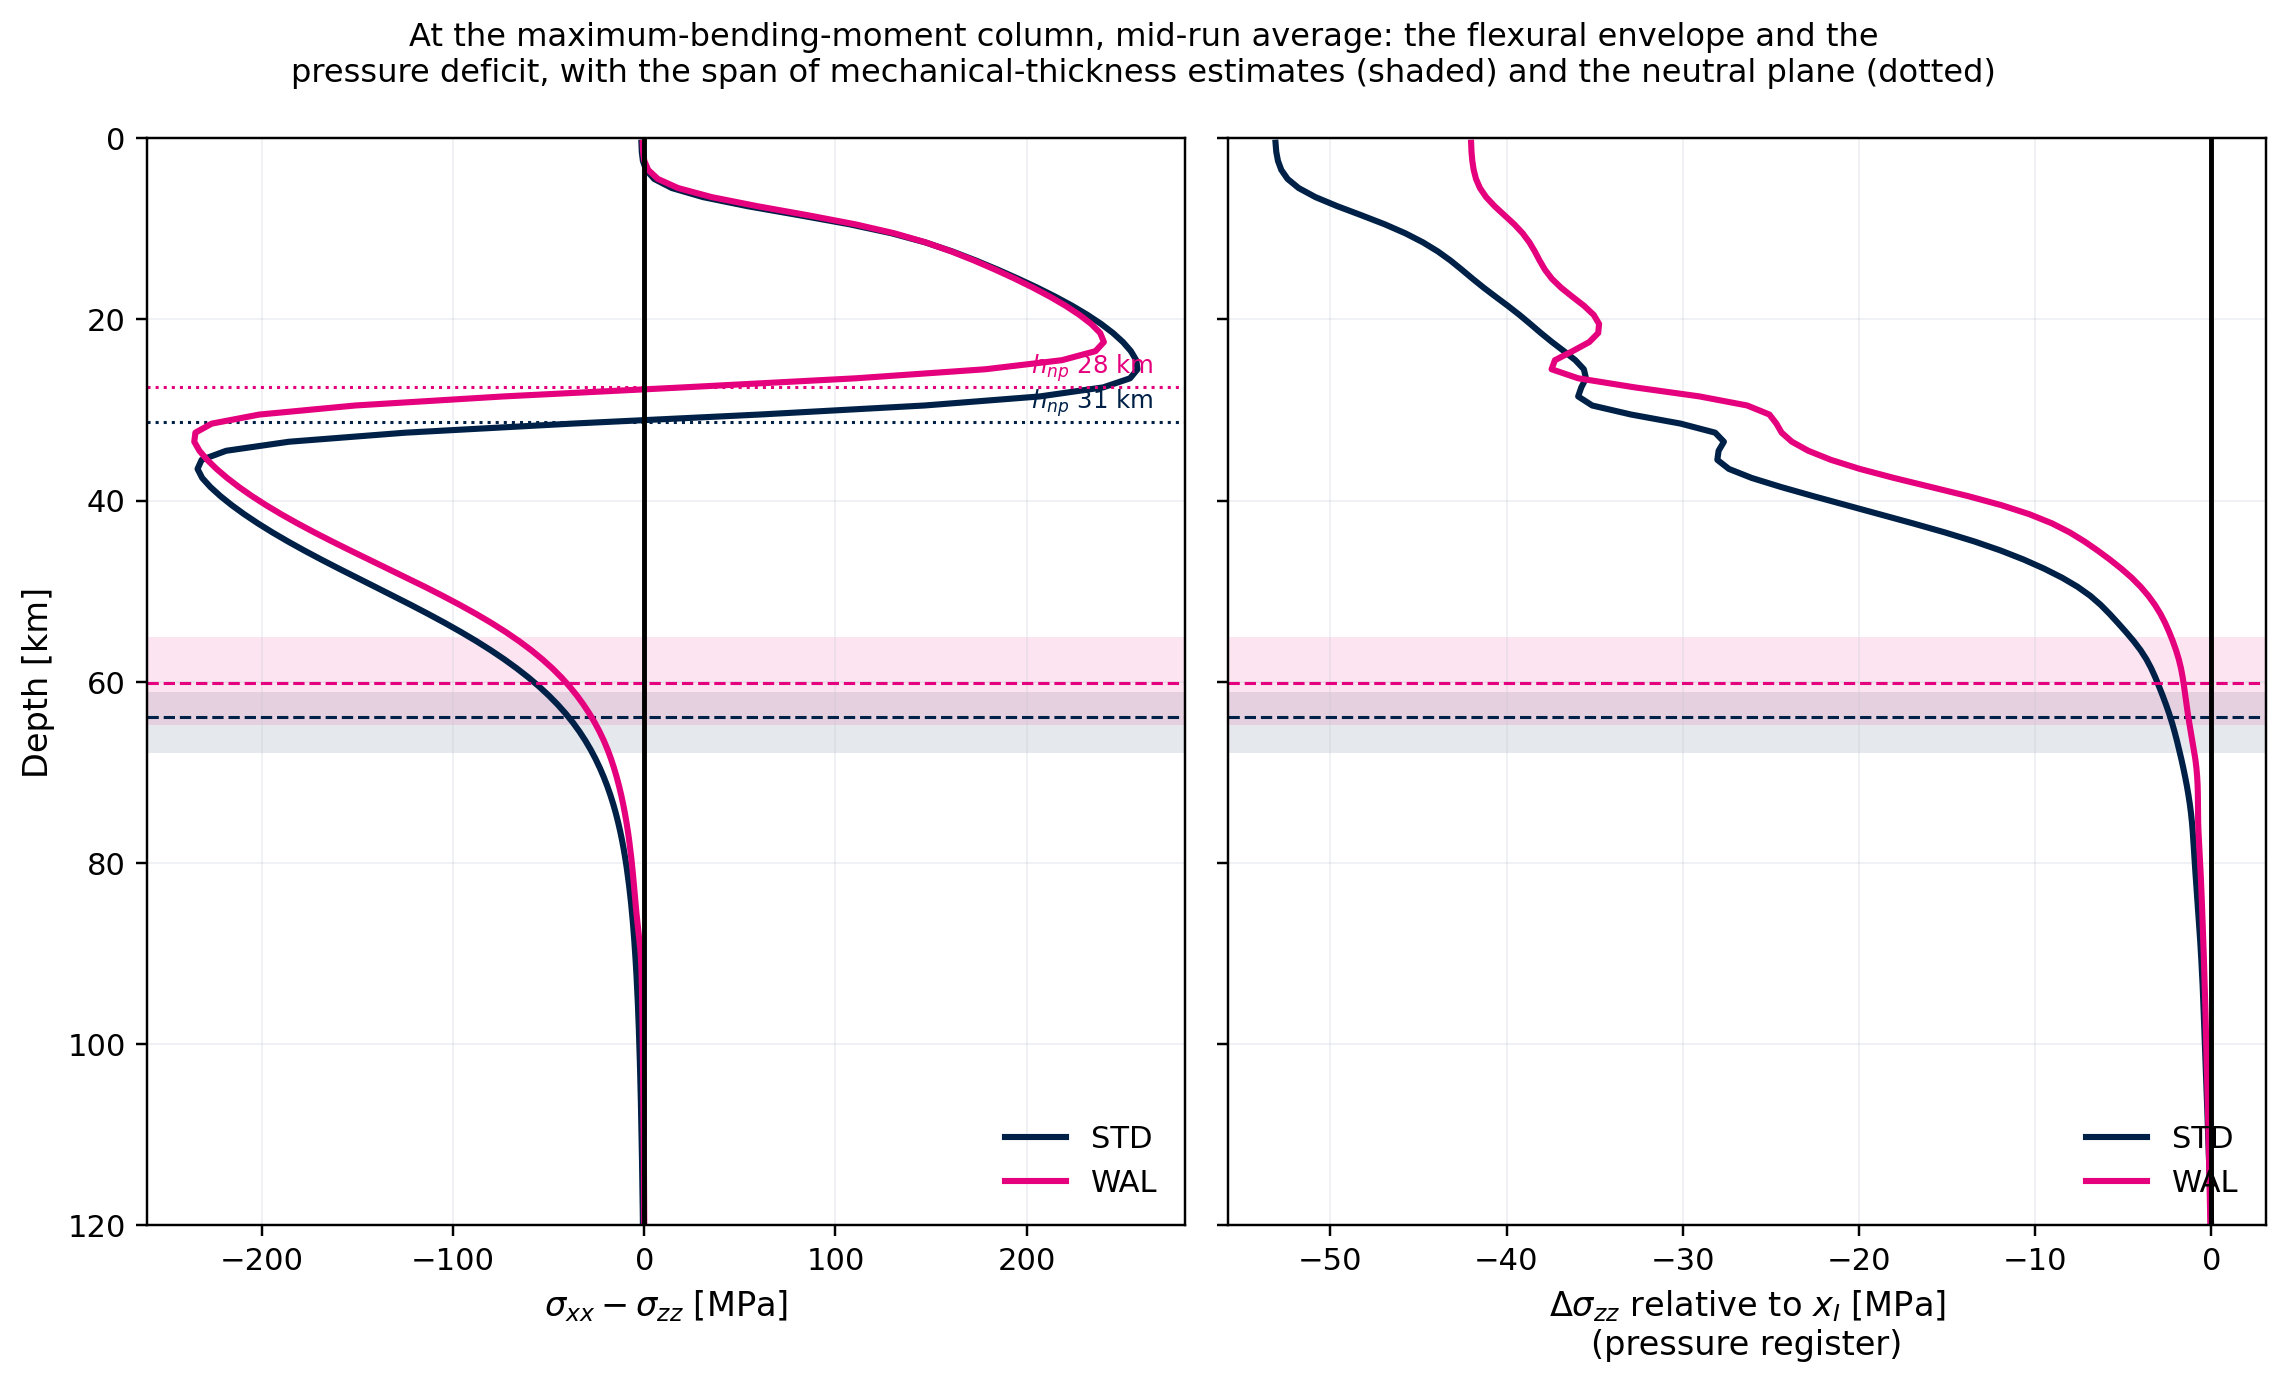
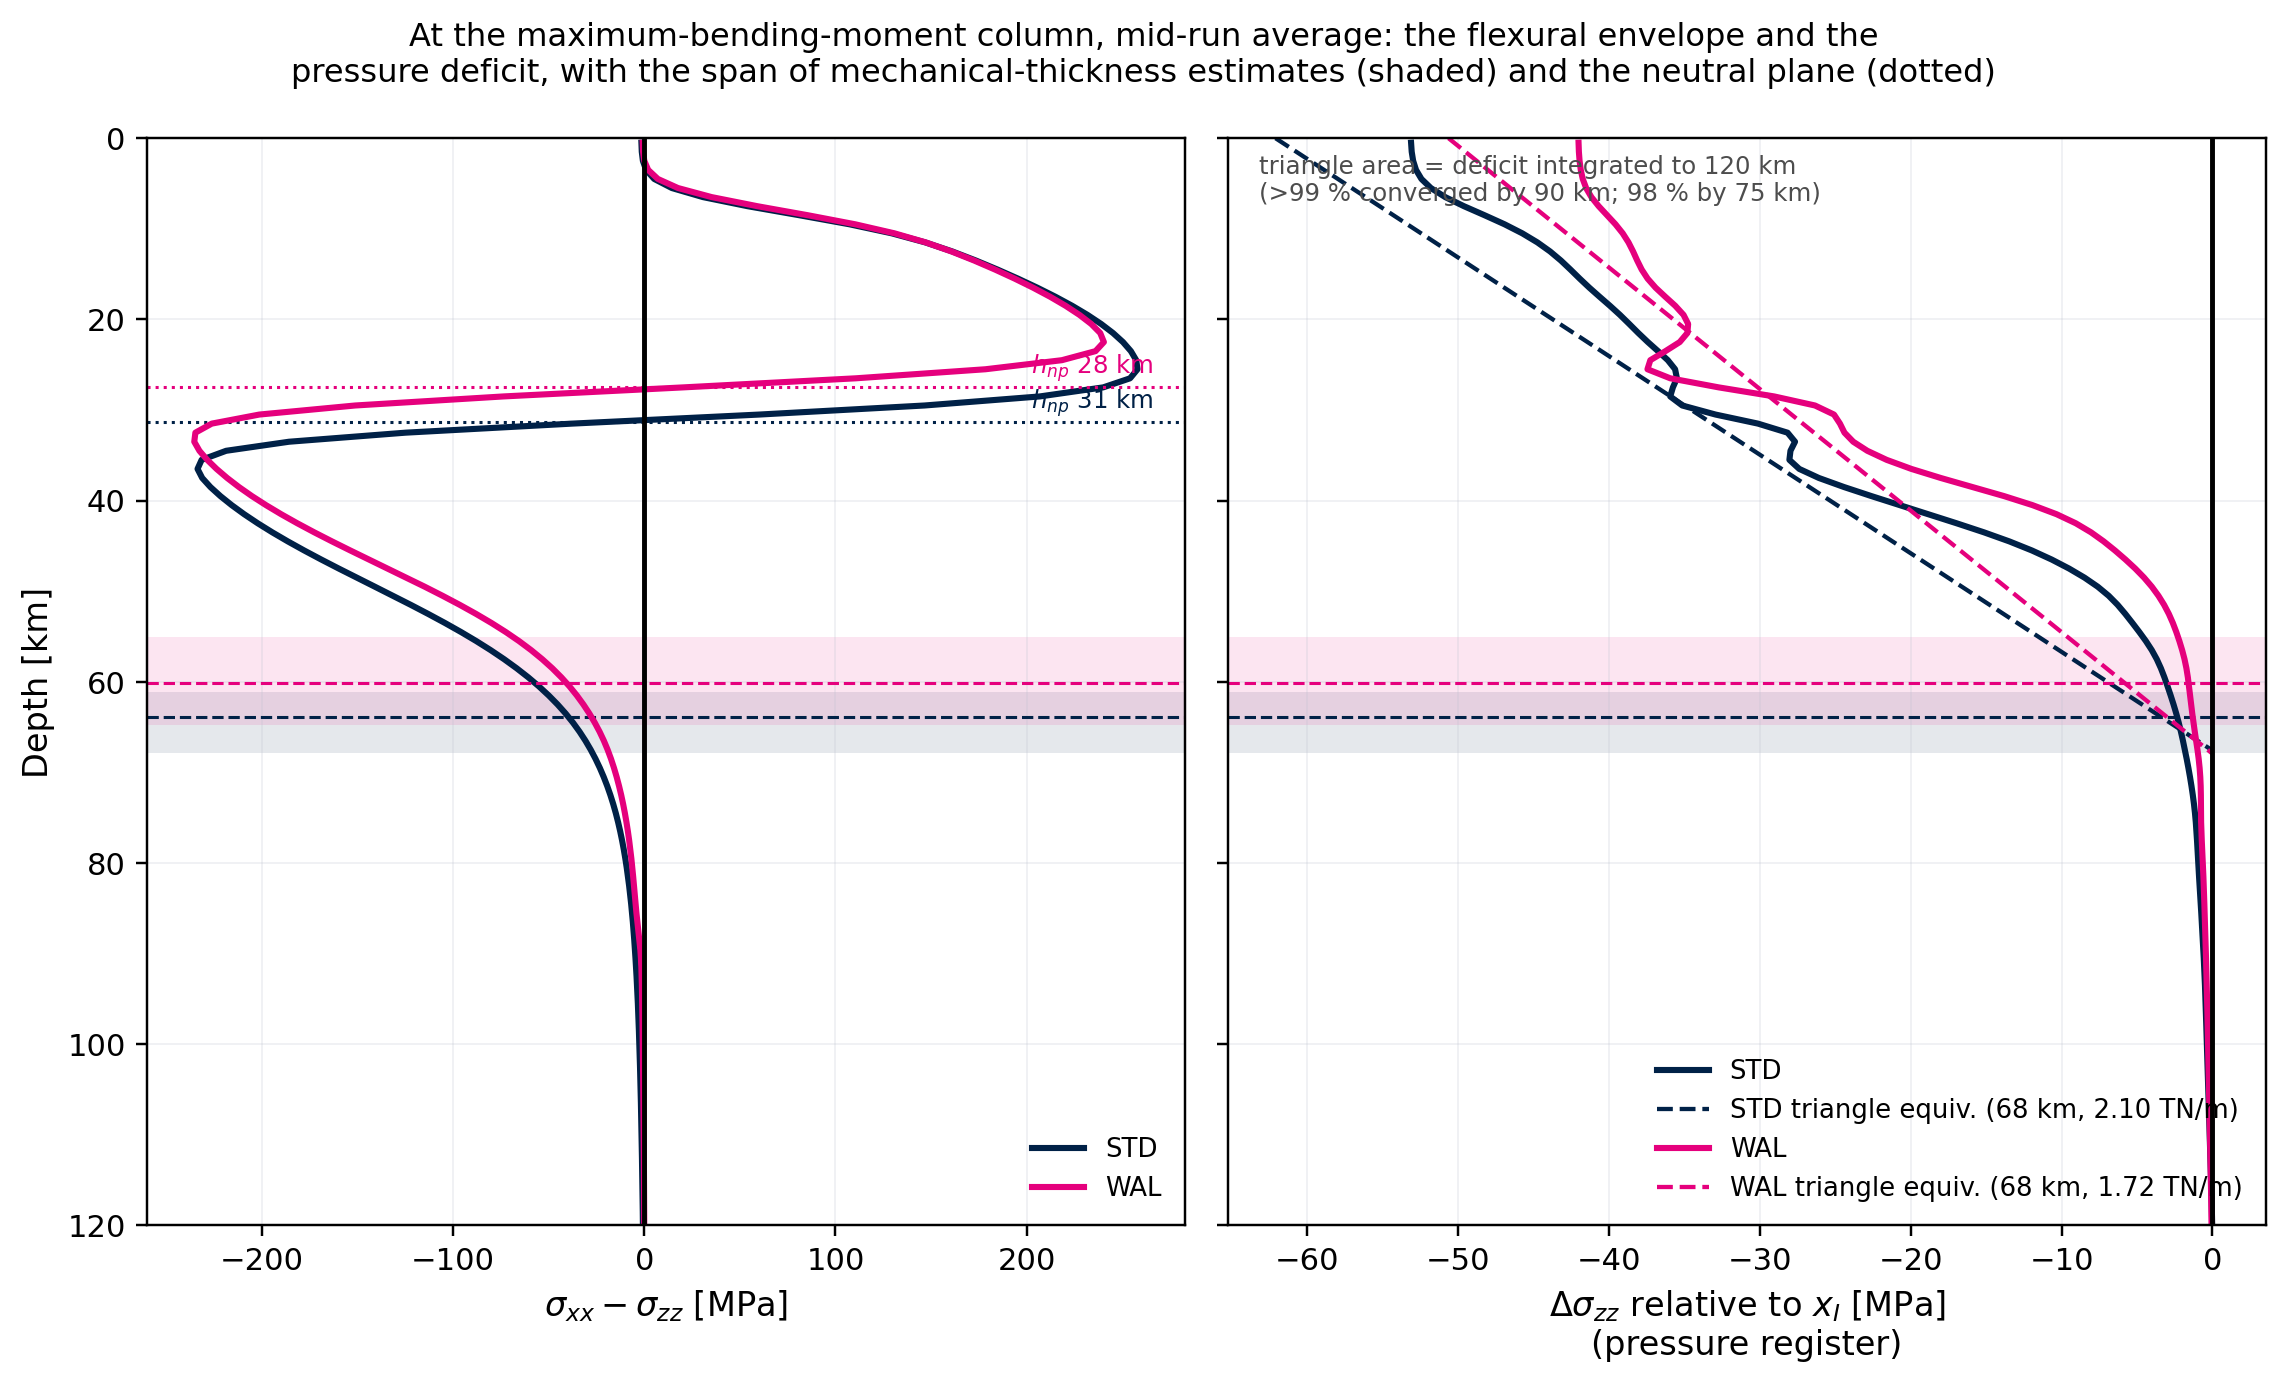
fig_trench_stress_profiles: draw the triangle equivalent and declare its integration depth
The triangle-equivalent thickness is now drawn as an actual triangle on
the deficit panel: same peak amplitude, same area as the measured
deficit, decaying linearly to zero at h_triangle = 2 x area / peak
(STD 67.6 km x 62 MPa = 2.10 TN/m; WAL 67.9 km x 51 MPa = 1.72 TN/m).
The integration depth for that area is declared on the figure
(120 km; the deficit is 98 % converged by 75 km and >99 % by 90 km, flat
from 120 to 200 km). Triangle dimensions moved into the legend so the
two models' labels no longer collide, and the fill dropped -- the
hypotenuse plus the axis reads the triangle without obscuring the
measured curves.

diff --git a/scripts/fig_trench_stress_profiles.py b/scripts/fig_trench_stress_profiles.py
@@ -14,7 +14,12 @@ signal is strongest:
          flexural fibre stress. Its zero crossing is the neutral plane;
          the outer-fibre peaks bound the strong part of the plate.
   right  the DELTA SIGMA_ZZ profile, that column minus the first isostatic
-         column (pressure register) — the topographic pressure deficit.
+         column (pressure register) — the topographic pressure deficit —
+         with the TRIANGLE EQUIVALENT drawn as an actual triangle: the
+         same area as the measured deficit (integrated to the declared
+         depth Z_TP_KM = 120 km, by which the deficit is >99 % converged)
+         and the same peak amplitude, decaying linearly to zero at
+         h_triangle = 2 x area / peak.
 
 Overlaid on both, per model: the span of the four independent mechanical
 thickness estimates (2 h_np, yield-10 %, yield-50 MPa, thermal 900 C) as
@@ -46,10 +51,16 @@ from fig_mechanical_thickness import thicknesses
 ROOT = os.path.dirname(os.path.dirname(os.path.abspath(__file__)))
 C = {'STD': '#002147', 'WAL': '#E5007D'}
 C_RULE = '#BFC3D1'
+Z_TP_KM = 120.0    # declared integration depth for the trench-pull area.
+                   # The deficit has converged well before it: the integral
+                   # reaches 94-96 % by 60 km, 98 % by 75 km and 99 % by
+                   # 90 km, and is flat from 120 to 200 km (<1 %). Stated
+                   # on the figure rather than left implicit (Dan, 2026-09-16).
 
 def main():
     d = cpc.load()
     fig, axes = plt.subplots(1, 2, figsize=(10.5, 6.4), sharey=True)
+    tri_info = []
     for key in ('STD', 'WAL'):
         col = C[key]
         c = cpc.derive(d, key)
@@ -62,6 +73,18 @@ def main():
         dx_M = (d[f'{key}_xM'][m] - d[f'{key}_xT'][m]).mean() / 1e3
         axes[0].plot(fib, zkm, color=col, lw=2.0, label=key)
         axes[1].plot(dzz, zkm, color=col, lw=2.0, label=key)
+        # THE TRIANGLE EQUIVALENT, drawn as an actual triangle: same area as
+        # the measured deficit integrated to Z_TP_KM, same peak amplitude,
+        # decaying linearly to zero at h_triangle = 2 x area / peak.
+        dfc = -sm(c['p_T'][m].mean(axis=0))                 # deficit, positive, Pa
+        zc = z <= Z_TP_KM * 1e3
+        area = np.trapz(dfc[zc], z[zc])                      # = trench pull, N/m
+        peak = dfc[z <= 75e3].max()
+        h_tri = 2 * area / peak
+        axes[1].plot([-peak / 1e6, 0.0], [0.0, h_tri / 1e3], color=col, lw=1.4,
+                     ls='--', label=f'{key} triangle equiv. '
+                                    f'({h_tri/1e3:.0f} km, {area/1e12:.2f} TN/m)')
+        tri_info.append((key, col, h_tri, area, peak))
         ests = np.array([r[k][m].mean() for k in ('np2', 'yield10', 'yield50',
                                                   'thermal')]) / 1e3
         h_np = r['np2'][m].mean() / 2e3
@@ -79,11 +102,18 @@ def main():
     axes[1].set_xlabel(r'$\Delta\sigma_{zz}$ relative to $x_I$ [MPa]'
                        '\n(pressure register)', fontsize=11)
     axes[0].set_ylabel('Depth [km]', fontsize=11)
-    axes[0].set_ylim(120, 0)
+    axes[0].set_ylim(Z_TP_KM, 0)
+    axes[1].text(0.03, 0.985,
+                 f'triangle area = deficit integrated to {Z_TP_KM:.0f} km\n'
+                 '(>99 % converged by 90 km; 98 % by 75 km)',
+                 transform=axes[1].transAxes, fontsize=8, color='0.3', va='top')
+    for key, col, h_tri, area, peak in tri_info:
+        print(f'{key}: triangle {h_tri/1e3:.1f} km x {peak/1e6:.0f} MPa, '
+              f'area {area/1e12:.2f} TN/m')
     for ax in axes:
         ax.axvline(0, color='k', lw=1.6)
         ax.grid(alpha=0.25, color=C_RULE, lw=0.6)
-        ax.legend(frameon=False, fontsize=10, loc='lower right')
+        ax.legend(frameon=False, fontsize=8.5, loc='lower right')
     fig.suptitle('At the maximum-bending-moment column, mid-run average: the flexural '
                  'envelope and the\npressure deficit, with the span of '
                  'mechanical-thickness estimates (shaded) and the neutral plane (dotted)',
